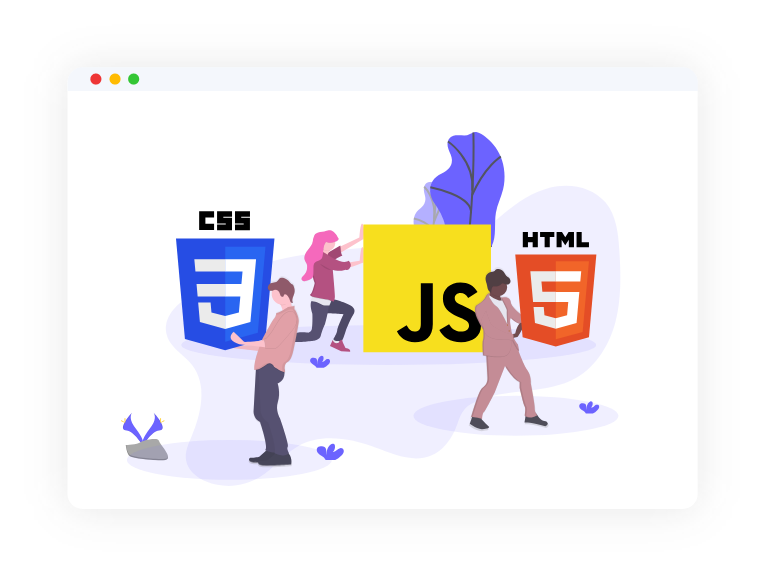
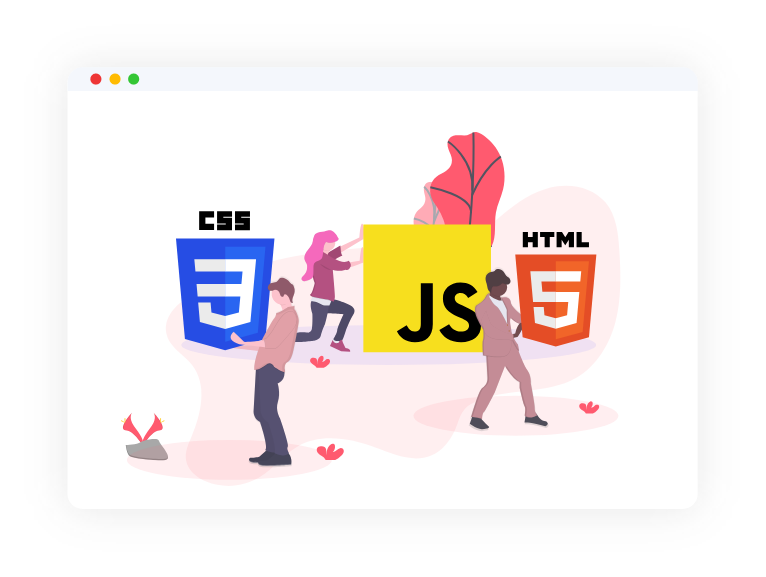
Refactor what we do cards

diff --git a/src/components/WeDoCard/WeDoCard.css b/src/components/WeDoCard/WeDoCard.css
@@ -31,23 +31,98 @@
 
 .we-do-card-component .we-do-card-component--right h2 {
 	font-size: 2em;
+	color: #707070;
 }
 
-.we-do-card-component .we-do-card-component--right__service {
-	color: #108af9;
+.we-do-card-component h2.we-do-card-component--right__service {
+	color: #ff646e;
 	font-size: 2.2em;
 }
 
-@media (max-width: 600px) {
-	.we-do-card-component {
-		grid-template-columns: 1fr;
+.we-do-card-component:nth-child(odd) .we-do-card-component--left {
+	order: 2;
+}
+
+@media (max-width: 1600px) {
+	.we-do-card-component .we-do-card-component--right h2 {
+		font-size: 1.5em;
 	}
 
+	.we-do-card-component h2.we-do-card-component--right__service {
+		font-size: 2em;
+	}
+
+	.we-do-card-component .we-do-card-component--right {
+		width: 90%;
+	}
+}
+
+@media (max-width: 1200px) {
+	.we-do-card-component {
+		grid-template-columns: 1fr;
+		margin-bottom: 40px;
+		-webkit-box-shadow: 0px 0px 45px 0px rgba(48, 48, 48, 0.12);
+		-moz-box-shadow: 0px 0px 45px 0px rgba(48, 48, 48, 0.12);
+		box-shadow: 0px 0px 45px 0px rgba(48, 48, 48, 0.12);
+		border-radius: 10px;
+	}
+
+	.we-do-card-component .we-do-card-component--left img {
+		width: 60%;
+		margin: 0 auto;
+		display: block;
+	}
+
+	.we-do-card-component:nth-child(odd) .we-do-card-component--right {
+		order: 2;
+	}
+
+	.we-do-card-component .we-do-card-component--right h2 {
+		font-size: 25px;
+		text-align: center;
+	}
+
+	.we-do-card-component .we-do-card-component--right__description img {
+		width: 80px;
+		margin: 20px 10px 0 0;
+		align-self: self-end;
+	}
+	.we-do-card-component .we-do-card-component--right__description p {
+		text-align: justify;
+		margin-bottom: 30px;
+	}
+
+	.we-do-card-component .we-do-card-component--right {
+		width: 60%;
+	}
+}
+
+@media (max-width: 850px) {
+	.we-do-card-component .we-do-card-component--right {
+		width: 80%;
+	}
+}
+
+@media (max-width: 700px) {
 	.we-do-card-component .we-do-card-component--left img {
 		width: 100%;
 	}
 
-	.we-do-card-component .we-do-card-component--right__description {
-		flex-direction: column;
+	.we-do-card-component .we-do-card-component--right__description img,
+	.we-do-card-component .we-do-card-component--right h2 {
+		display: none;
+	}
+
+	.we-do-card-component h2.we-do-card-component--right__service {
+		display: block;
+		font-size: 1.5em;
+		text-align: center;
+		margin: 0;
+	}
+}
+@media (max-width: 600px) {
+	.we-do-card-component .we-do-card-component--right__description p {
+		text-align: justify;
+		font-size: 18px;
 	}
 }

diff --git a/src/sections/WhatWeDoSection/WhatWeDoSection.js b/src/sections/WhatWeDoSection/WhatWeDoSection.js
@@ -5,6 +5,9 @@ import WeDoCard from "../../components/WeDoCard";
 
 // Import images
 import WeDoImg01 from "../../main_assets/images/wedo_img_01.png";
+import WeDoImg02 from "../../main_assets/images/wedo_img_02.png";
+import WeDoImg03 from "../../main_assets/images/wedo_img_03.png";
+import MoreServices from "../../main_assets/images/more_services.png";
 
 const WhatWeDoSection = () => {
 	const services = [
@@ -14,6 +17,20 @@ const WhatWeDoSection = () => {
 			content:
 				"We include data analytics (google analytics) as part of most of our projects for research and development.",
 			image: WeDoImg01
+		},
+		{
+			service: "Web and mobile development",
+			title: "Get the most out of your website with google analytics",
+			content:
+				"We include data analytics (google analytics) as part of most of our projects for research and development.",
+			image: WeDoImg02
+		},
+		{
+			service: "Web and mobile development",
+			title: "Get the most out of your website with google analytics",
+			content:
+				"We include data analytics (google analytics) as part of most of our projects for research and development.",
+			image: WeDoImg03
 		}
 	];
 	const servicesList = services.map((service, idx) => (
@@ -27,6 +44,18 @@ const WhatWeDoSection = () => {
 			<WeDoCard />
 			<WeDoCard /> */}
 			{servicesList}
+			<div className="what-we-do-section--more">
+				<p>
+					We also provide Resume Reviews and Mock interviews for internships and
+					full-time positions, teach people how to code, build portfolio website
+					for students and clubs/organizations
+				</p>
+				<img
+					className="what-we-do-section--img"
+					src={MoreServices}
+					alt="More services icon"
+				/>
+			</div>
 		</div>
 	);
 };

diff --git a/src/sections/AboutSection/AboutSection.css b/src/sections/AboutSection/AboutSection.css
@@ -7,7 +7,7 @@
 	text-align: justify;
 	line-height: 40px;
 	margin: 0 auto;
-	width: 1000px;
+	width: 100%;
 	color: #707070;
 }
 
@@ -15,23 +15,6 @@
 	color: #ff646e;
 	text-decoration: none;
 	font-weight: bold;
-}
-.about-section .about-section--wrapper .about-brace {
-	font-size: 5em;
-	color: #ff646e;
-}
-
-.about-section .about-section--wrapper .about-brace:first-child {
-	margin-right: 20px;
-}
-.about-section .about-section--wrapper .about-brace:last-child {
-	margin-left: 20px;
-}
-
-@media only screen and (max-width: 1400px) {
-	.about-section .about-section--wrapper {
-		width: 100%;
-	}
 }
 
 @media only screen and (max-width: 700px) {

diff --git a/src/sections/WhatWeDoSection/WhatWeDoSection.css b/src/sections/WhatWeDoSection/WhatWeDoSection.css
@@ -1,3 +1,26 @@
 .what-we-do-section {
 	grid-column: 2;
 }
+
+.what-we-do-section .what-we-do-section--img {
+	width: 90%;
+}
+
+.what-we-do-section .what-we-do-section--more {
+	display: flex;
+	flex-direction: column;
+	align-items: center;
+	justify-content: center;
+}
+
+.what-we-do-section .what-we-do-section--more img {
+	width: 50%;
+}
+
+.what-we-do-section .what-we-do-section--more p {
+	font-size: 20px;
+	line-height: 30px;
+	width: 50%;
+	text-align: center;
+	margin-bottom: 3em;
+}

diff --git a/src/sections/AboutSection/AboutSection.jsx b/src/sections/AboutSection/AboutSection.jsx
@@ -2,9 +2,6 @@ import React from "react";
 import "./AboutSection.css";
 import Title from "../../components/Title/Title";
 
-// Import images
-import WeDoImg01 from "../../main_assets/images/wedo_img_01.png";
-
 const AboutSection = () => {
 	return (
 		<div className="about-section">

diff --git a/src/components/WeDoCard/index.js b/src/components/WeDoCard/index.js
@@ -3,7 +3,6 @@ import "./WeDoCard.css";
 import bulletImg from "../../main_assets/images/bullet_img.svg";
 
 const WeDoCard = ({ information }) => {
-	console.log(information);
 	return (
 		<div className="we-do-card-component">
 			<div className="we-do-card-component--left">
